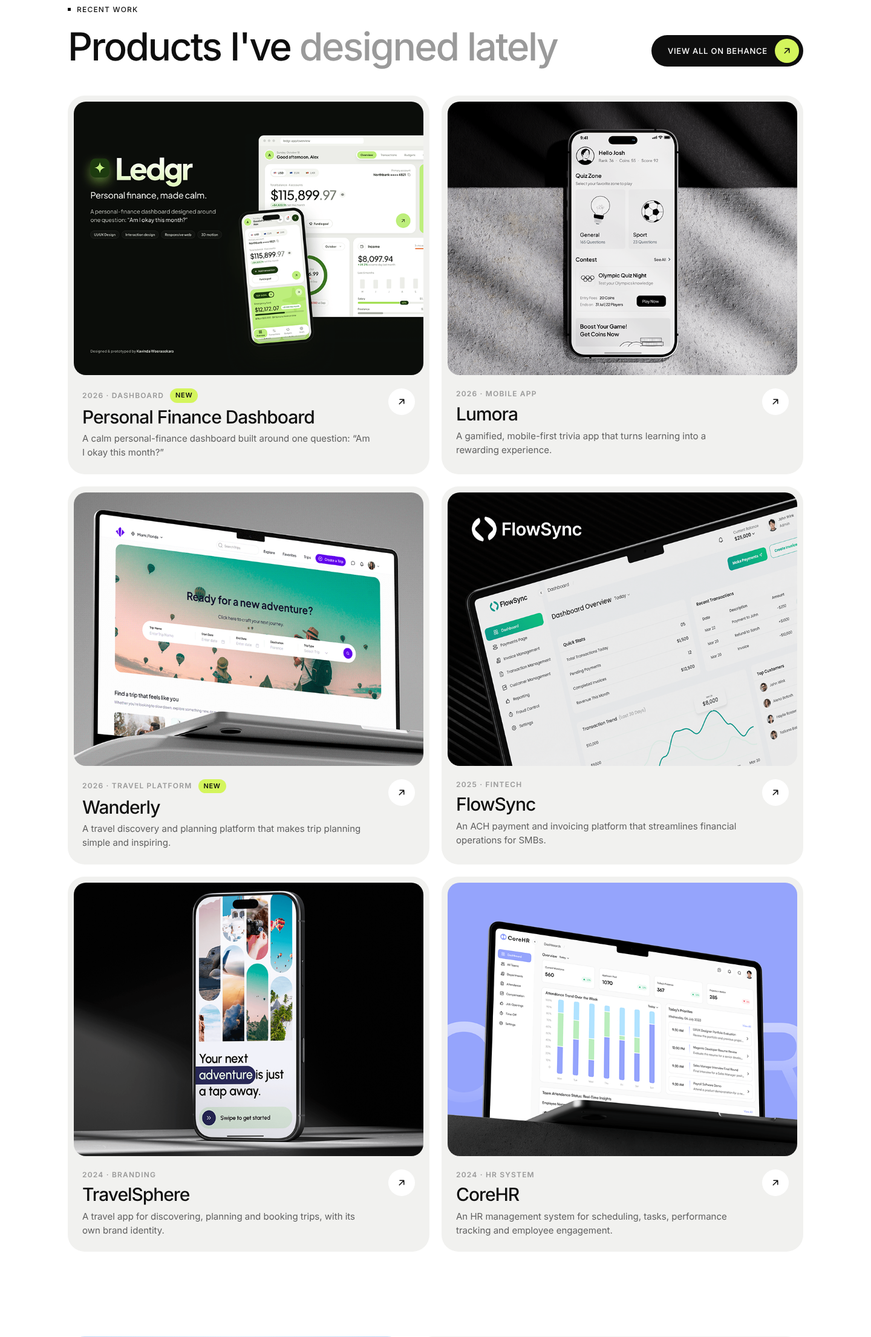
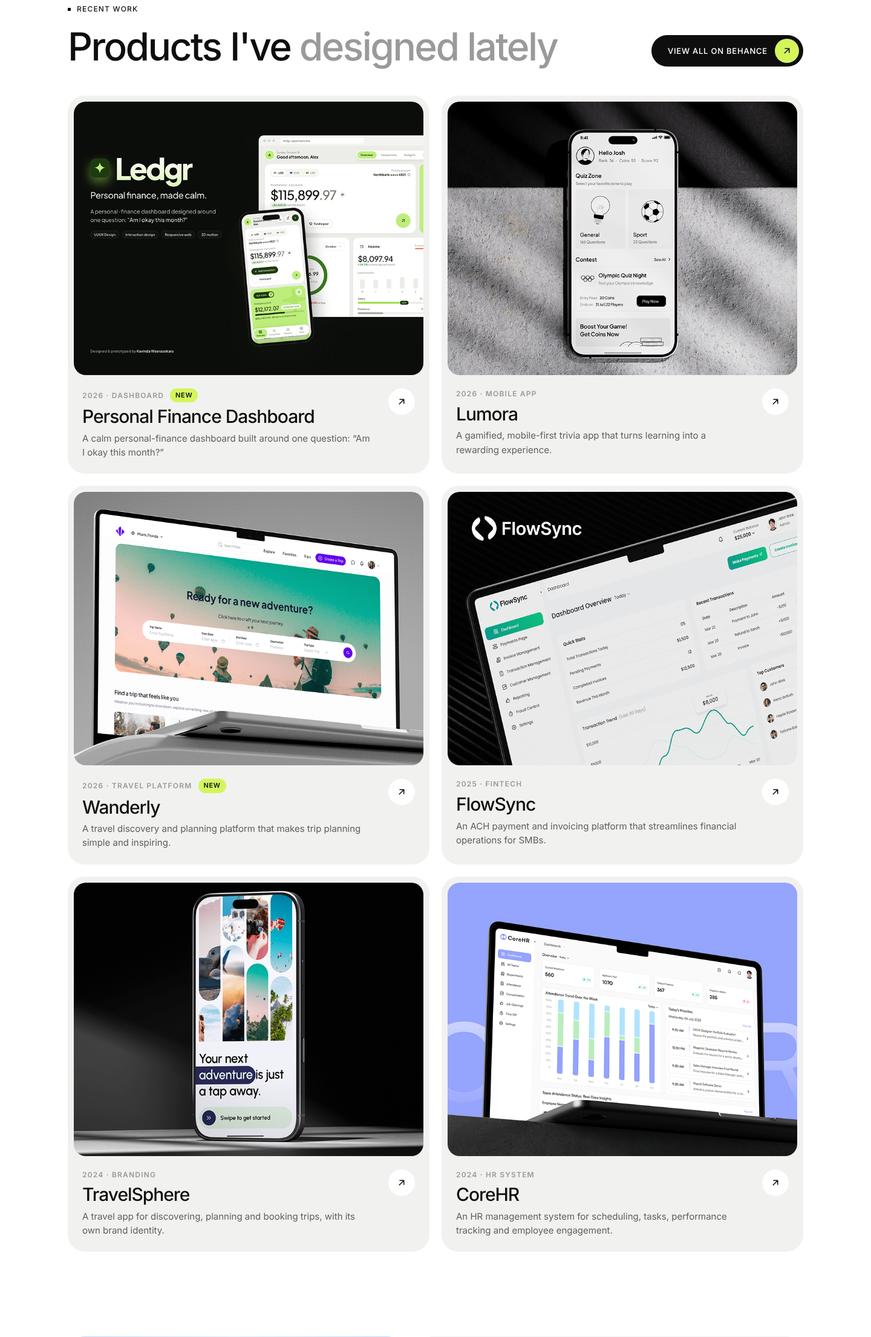
Redesign Experience as an interactive career timeline (#38)
* Add TravelSphere case study page from Behance

Nine chapters with verbatim text and 10 WebP images cropped from the
Behance project; credits Nimi Technologies; bumps asset version.

Claude-Session: https://claude.ai/code/session_015EbaoHuLAS2ZFqxRk9GYXy

* Add CoreHR case study page from Behance

Ten chapters with verbatim text and 10 WebP images cropped from the
Behance project; credits Nimi Technologies; bumps asset version.

Claude-Session: https://claude.ai/code/session_015EbaoHuLAS2ZFqxRk9GYXy

* Give each About stat card its own visual

Dark years card with rising bars, lime components card with a tile grid,
overlapping company logos for the teams card and a contrast-check badge
for WCAG. Bars and tiles animate in on reveal; icons hide on phones.

Claude-Session: https://claude.ai/code/session_015EbaoHuLAS2ZFqxRk9GYXy

* Turn the process steps into a connected journey

Step icons, arrow connectors, ghost numbers, tag chips from each step's
text and a filling 4-step progress bar; cards turn dark with lime
accents on hover. Arrows adapt to 2- and 1-column layouts.

Claude-Session: https://claude.ai/code/session_015EbaoHuLAS2ZFqxRk9GYXy

* Turn Experience into an interactive career timeline

A proportional 2021-2026 career bar, accessible role tabs with company
logos and a dark detail panel with duration, ghost start year and
numbered highlights. Tabs support arrow keys; the bar selects roles too;
without JS every role is shown.
[…]

diff --git a/index.html b/index.html
@@ -19,7 +19,7 @@
   <link rel="preconnect" href="https://fonts.googleapis.com" />
   <link rel="preconnect" href="https://fonts.gstatic.com" crossorigin />
   <link href="https://fonts.googleapis.com/css2?family=Inter:wght@300;400;500;600&display=swap" rel="stylesheet" />
-  <link rel="stylesheet" href="assets/css/style.css?v=20261027g" />
+  <link rel="stylesheet" href="assets/css/style.css?v=20261027h" />
 </head>
 <body>
   <a class="skip-link" href="#main">Skip to content</a>
@@ -398,49 +398,77 @@
           </a>
         </div>
 
-        <div class="jobs">
-          <article class="job reveal">
-            <div class="job__top"><span class="date-pill">Apr 2025 — Aug 2026</span><span class="job__no">01</span></div>
+        <div class="career reveal">
+          <div class="career-bar" aria-hidden="true">
+            <div class="career-bar__track"><button type="button" class="career-bar__seg" style="--m:7" data-job="arimac" tabindex="-1" aria-hidden="true"><span>Arimac</span></button><button type="button" class="career-bar__seg" style="--m:21" data-job="empite" tabindex="-1" aria-hidden="true"><span>Empite</span></button><span class="career-bar__gap" style="--m:2"></span><button type="button" class="career-bar__seg" style="--m:17" data-job="nimi" tabindex="-1" aria-hidden="true"><span>Nimi Tech</span></button><button type="button" class="career-bar__seg" style="--m:17" data-job="axis" tabindex="-1" aria-hidden="true"><span>Axis Tech</span></button></div>
+            <div class="career-bar__axis"><span style="left:0.00%">2021</span><span style="left:12.50%">2022</span><span style="left:31.25%">2023</span><span style="left:50.00%">2024</span><span style="left:68.75%">2025</span><span style="left:87.50%">2026</span><span class="career-bar__now">Today</span></div>
+          </div>
+          <div class="career__body">
+            <div class="career__tabs" role="tablist" aria-label="Roles">
+            <button type="button" class="career__tab" role="tab" id="tab-axis" aria-controls="job-axis" aria-selected="true" data-job="axis">
+              <span class="career__logo"><img src="assets/img/logos/axis-tech.png" alt="" width="121" height="120" loading="lazy" /></span>
+              <span class="career__tab-text"><strong>Senior UI/UX Designer</strong><span>Axis Tech</span></span>
+              <span class="career__tab-date">2025–26</span>
+            </button>
+            <button type="button" class="career__tab" role="tab" id="tab-nimi" aria-controls="job-nimi" aria-selected="false" tabindex="-1" data-job="nimi">
+              <span class="career__logo"><img src="assets/img/logos/nimi-tech.svg" alt="" width="1359" height="719" loading="lazy" /></span>
+              <span class="career__tab-text"><strong>UI/UX Designer</strong><span>Nimi Tech</span></span>
+              <span class="career__tab-date">2023–25</span>
+            </button>
+            <button type="button" class="career__tab" role="tab" id="tab-empite" aria-controls="job-empite" aria-selected="false" tabindex="-1" data-job="empite">
+              <span class="career__logo"><img src="assets/img/logos/empite.png" alt="" width="260" height="120" loading="lazy" /></span>
+              <span class="career__tab-text"><strong>UI/UX Designer</strong><span>Empite</span></span>
+              <span class="career__tab-date">2021–23</span>
+            </button>
+            <button type="button" class="career__tab" role="tab" id="tab-arimac" aria-controls="job-arimac" aria-selected="false" tabindex="-1" data-job="arimac">
+              <span class="career__logo"><img src="assets/img/logos/arimac.png" alt="" width="124" height="120" loading="lazy" /></span>
+              <span class="career__tab-text"><strong>Intern UI/UX Designer</strong><span>Arimac</span></span>
+              <span class="career__tab-date">2021</span>
+            </button>
+            </div>
+            <div class="career__panels">
+          <article class="career__panel" role="tabpanel" id="job-axis" aria-labelledby="tab-axis">
+            <span class="career__ghost" aria-hidden="true">2025</span>
+            <div class="career__panel-top">
+              <span class="career__dates">Apr 2025 — Aug 2026</span>
+              <span class="career__dur">1 yr 5 mos</span>
+            </div>
             <h3>Senior UI/UX Designer</h3>
-            <p class="job__company">Axis Tech Lanka (Pvt) Ltd</p>
-            <ul>
-              <li>Introduced AI-powered workflows as part of digital transformation initiatives.</li>
-              <li>Delivered a full-scale redesign of the product across mobile and web.</li>
-              <li>Built a full design system of components, design tokens and UI patterns.</li>
-              <li>Created a dashboard design system in Figma with 100+ reusable components.</li>
-            </ul>
+            <p class="career__company"><span class="career__logo career__logo--sm"><img src="assets/img/logos/axis-tech.png" alt="" width="121" height="120" loading="lazy" /></span>Axis Tech Lanka (Pvt) Ltd</p>
+            <ol class="career__list"><li><span>01</span>Introduced AI-powered workflows as part of digital transformation initiatives.</li><li><span>02</span>Delivered a full-scale redesign of the product across mobile and web.</li><li><span>03</span>Built a full design system of components, design tokens and UI patterns.</li><li><span>04</span>Created a dashboard design system in Figma with 100+ reusable components.</li></ol>
           </article>
-          <article class="job reveal">
-            <div class="job__top"><span class="date-pill">Nov 2023 — Mar 2025</span><span class="job__no">02</span></div>
+          <article class="career__panel" role="tabpanel" id="job-nimi" aria-labelledby="tab-nimi" hidden>
+            <span class="career__ghost" aria-hidden="true">2023</span>
+            <div class="career__panel-top">
+              <span class="career__dates">Nov 2023 — Mar 2025</span>
+              <span class="career__dur">1 yr 5 mos</span>
+            </div>
             <h3>UI/UX Designer</h3>
-            <p class="job__company">Nimi Tech Limited</p>
-            <ul>
-              <li>Provided creative direction and design feedback aligned with business goals.</li>
-              <li>Ran usability testing and iterated designs based on user insights.</li>
-              <li>Managed team workload and delegated tasks by strengths and priorities.</li>
-              <li>Partnered with clients, PMs and developers across the development lifecycle.</li>
-            </ul>
+            <p class="career__company"><span class="career__logo career__logo--sm"><img src="assets/img/logos/nimi-tech.svg" alt="" width="1359" height="719" loading="lazy" /></span>Nimi Tech Limited</p>
+            <ol class="career__list"><li><span>01</span>Provided creative direction and design feedback aligned with business goals.</li><li><span>02</span>Ran usability testing and iterated designs based on user insights.</li><li><span>03</span>Managed team workload and delegated tasks by strengths and priorities.</li><li><span>04</span>Partnered with clients, PMs and developers across the development lifecycle.</li></ol>
           </article>
-          <article class="job reveal">
-            <div class="job__top"><span class="date-pill">Dec 2021 — Aug 2023</span><span class="job__no">03</span></div>
+          <article class="career__panel" role="tabpanel" id="job-empite" aria-labelledby="tab-empite" hidden>
+            <span class="career__ghost" aria-hidden="true">2021</span>
+            <div class="career__panel-top">
+              <span class="career__dates">Dec 2021 — Aug 2023</span>
+              <span class="career__dur">1 yr 9 mos</span>
+            </div>
             <h3>UI/UX Designer</h3>
-            <p class="job__company">Empite Solutions Pvt Ltd</p>
-            <ul>
-              <li>Designed user-centred websites and applications for client business goals.</li>
-              <li>Created personas, user flows, information architecture and WCAG-compliant designs.</li>
-              <li>Produced mid- and high-fidelity UI focused on consistency and usability.</li>
-            </ul>
+            <p class="career__company"><span class="career__logo career__logo--sm"><img src="assets/img/logos/empite.png" alt="" width="260" height="120" loading="lazy" /></span>Empite Solutions Pvt Ltd</p>
+            <ol class="career__list"><li><span>01</span>Designed user-centred websites and applications for client business goals.</li><li><span>02</span>Created personas, user flows, information architecture and WCAG-compliant designs.</li><li><span>03</span>Produced mid- and high-fidelity UI focused on consistency and usability.</li></ol>
           </article>
-          <article class="job reveal">
-            <div class="job__top"><span class="date-pill">May 2021 — Nov 2021</span><span class="job__no">04</span></div>
+          <article class="career__panel" role="tabpanel" id="job-arimac" aria-labelledby="tab-arimac" hidden>
+            <span class="career__ghost" aria-hidden="true">2021</span>
+            <div class="career__panel-top">
+              <span class="career__dates">May 2021 — Nov 2021</span>
+              <span class="career__dur">7 mos</span>
+            </div>
             <h3>Intern UI/UX Designer</h3>
-            <p class="job__company">Arimac Lanka Pvt Ltd</p>
-            <ul>
-              <li>Created wireframes for mobile and web apps for early-stage product design.</li>
-              <li>Researched emerging design trends to bring fresh ideas into projects.</li>
-              <li>Supported projects from research through execution.</li>
-            </ul>
+            <p class="career__company"><span class="career__logo career__logo--sm"><img src="assets/img/logos/arimac.png" alt="" width="124" height="120" loading="lazy" /></span>Arimac Lanka Pvt Ltd</p>
+            <ol class="career__list"><li><span>01</span>Created wireframes for mobile and web apps for early-stage product design.</li><li><span>02</span>Researched emerging design trends to bring fresh ideas into projects.</li><li><span>03</span>Supported projects from research through execution.</li></ol>
           </article>
+            </div>
+          </div>
         </div>
 
         <div class="edu">
@@ -501,6 +529,6 @@
     </div>
   </footer>
 
-  <script src="assets/js/main.js?v=20261027g"></script>
+  <script src="assets/js/main.js?v=20261027h"></script>
 </body>
 </html>

diff --git a/assets/css/style.css b/assets/css/style.css
@@ -581,17 +581,76 @@ details[open] .acc-icon::after { transform: rotate(0); }
 /* ---------- Experience ---------- */
 .exp-head { display: flex; justify-content: space-between; align-items: flex-end; gap: 24px; flex-wrap: wrap; margin-bottom: clamp(32px, 4vw, 48px); }
 .exp-head__title { margin-top: 18px; font-size: clamp(36px, 5vw, 64px); }
-.jobs { display: grid; grid-template-columns: repeat(2, 1fr); gap: 20px; }
-.job { padding: clamp(24px, 3vw, 36px); border-radius: var(--radius-lg); background: var(--gray); transition: transform .4s var(--ease); }
-.job:hover { transform: translateY(-4px); }
-.job__top { display: flex; justify-content: space-between; align-items: center; margin-bottom: 32px; }
-.date-pill { padding: 6px 14px; border-radius: 999px; background: #fff; font-size: 12px; letter-spacing: .04em; }
-.job__no { font-size: 12px; color: var(--text-subtle); }
-.job h3 { font-size: clamp(24px, 2.4vw, 30px); letter-spacing: -0.035em; }
-.job__company { margin-top: 6px; color: var(--text-muted); font-weight: 500; }
-.job ul { margin-top: 20px; padding-top: 20px; border-top: 1px solid #dcdcd8; display: grid; gap: 8px; color: var(--text-muted); font-size: 15px; }
-.job li { position: relative; padding-left: 20px; }
-.job li::before { content: ""; position: absolute; left: 0; top: 8px; width: 8px; height: 8px; border-radius: 50%; background: var(--lime); box-shadow: inset 0 0 0 1px rgba(14, 14, 14, .15); }
+/* Career timeline */
+.career-bar { margin-bottom: 20px; padding: 22px 24px 18px; border-radius: var(--radius-lg); background: var(--gray); }
+.career-bar__track { display: flex; gap: 4px; height: 44px; }
+.career-bar__seg {
+  flex: var(--m) 1 0; min-width: 0; border: 0; border-radius: 12px; background: var(--gray-2); color: var(--text-muted);
+  font: 500 13px/1 var(--font-sans); text-align: left; padding: 0 12px; overflow: hidden; white-space: nowrap;
+  transition: background-color .35s var(--ease), color .35s var(--ease), flex-grow .6s var(--ease);
+}
+.career-bar__seg span { display: block; overflow: hidden; text-overflow: ellipsis; }
+.career-bar__seg:hover { background: #dcdcd8; color: var(--text); }
+.career-bar__seg.is-active { background: var(--ink); color: #fff; }
+.career-bar__seg.is-active::before { content: ""; display: inline-block; vertical-align: middle; width: 6px; height: 6px; margin: -2px 8px 0 0; border-radius: 50%; background: var(--lime); float: left; margin-top: 4px; }
+.career-bar__gap { flex: var(--m) 1 0; border-radius: 12px; background: repeating-linear-gradient(-45deg, transparent 0 4px, rgba(14, 14, 14, .07) 4px 6px); }
+.career-bar__axis { position: relative; height: 18px; margin-top: 10px; font-size: 11.5px; letter-spacing: .06em; color: var(--text-subtle); }
+.career-bar__axis span { position: absolute; top: 0; padding-left: 7px; border-left: 1px solid #d4d4d0; line-height: 18px; }
+.career-bar__axis .career-bar__now { right: 0; border: 0; padding: 0; color: var(--text); font-weight: 600; }
+.career-bar__axis .career-bar__now::before { content: ""; display: inline-block; width: 6px; height: 6px; margin: 0 6px 1px 0; border-radius: 50%; background: var(--lime); box-shadow: 0 0 0 3px rgba(212, 245, 92, .35); }
+
+.career__body { display: grid; grid-template-columns: minmax(0, 380px) minmax(0, 1fr); gap: 20px; }
+.career__tabs { position: relative; display: flex; flex-direction: column; gap: 8px; padding: 10px; border-radius: var(--radius-lg); background: var(--gray); }
+.career__tab {
+  position: relative; flex: 1; display: flex; align-items: center; gap: 14px; width: 100%; padding: 14px; border: 0; border-radius: 18px;
+  background: transparent; color: var(--text); font: inherit; text-align: left;
+  transition: background-color .35s var(--ease), box-shadow .35s var(--ease), transform .35s var(--ease);
+}
+.career__tab:hover { background: rgba(255, 255, 255, .6); }
+.career__tab[aria-selected="true"] { background: #fff; box-shadow: var(--shadow); }
+.career__tab[aria-selected="true"]::after { content: ""; position: absolute; left: -10px; top: 22px; bottom: 22px; width: 4px; border-radius: 0 4px 4px 0; background: var(--lime); }
+.career__tab:focus-visible { outline: 2px solid var(--ink); outline-offset: 2px; }
+.career__logo { flex: none; width: 48px; height: 48px; border-radius: 14px; background: #fff; display: grid; place-items: center; padding: 8px; box-shadow: inset 0 0 0 1px var(--border); }
+.career__logo img { width: 100%; height: 100%; object-fit: contain; }
+.career__tab-text { min-width: 0; flex: 1; display: grid; gap: 2px; }
+.career__tab-text strong { font-size: 15.5px; font-weight: 600; letter-spacing: -0.01em; }
+.career__tab-text span { font-size: 13.5px; color: var(--text-muted); }
+.career__tab-date { font-size: 12px; letter-spacing: .04em; color: var(--text-subtle); font-variant-numeric: tabular-nums; }
+
+.career__panels { min-width: 0; }
+.career__panel {
+  position: relative; overflow: hidden; isolation: isolate; height: 100%; padding: clamp(28px, 3.4vw, 44px);
+  border-radius: var(--radius-xl); background: var(--ink); color: #fff;
+}
+.js .career__panel:not([hidden]) { animation: career-in .6s var(--ease); }
+@keyframes career-in { from { opacity: 0; transform: translateY(14px); } to { opacity: 1; transform: none; } }
+.career__panel::before {
+  content: ""; position: absolute; z-index: -1; right: -20%; top: -40%; width: 70%; aspect-ratio: 1; border-radius: 50%;
+  background: radial-gradient(closest-side, rgba(212, 245, 92, .22), transparent);
+}
+.career__ghost {
+  position: absolute; z-index: -1; right: -0.04em; bottom: -0.2em; font-size: clamp(120px, 16vw, 220px); font-weight: 600;
+  letter-spacing: -0.07em; line-height: 1; color: rgba(255, 255, 255, .04); pointer-events: none;
+}
+.career__panel-top { display: flex; flex-wrap: wrap; align-items: center; gap: 8px; }
+.career__dates { padding: 7px 14px; border-radius: 999px; background: var(--lime); color: var(--ink); font-size: 12.5px; font-weight: 500; letter-spacing: .02em; }
+.career__dur { padding: 7px 14px; border-radius: 999px; background: rgba(255, 255, 255, .1); font-size: 12.5px; letter-spacing: .02em; }
+.career__panel h3 { margin-top: clamp(28px, 4vw, 48px); font-size: clamp(30px, 3.6vw, 48px); letter-spacing: -0.045em; line-height: 1.05; }
+.career__company { margin-top: 14px; display: flex; align-items: center; gap: 12px; color: rgba(255, 255, 255, .72); font-weight: 500; }
+.career__logo--sm { width: 36px; height: 36px; border-radius: 10px; padding: 6px; box-shadow: none; }
+.career__list { margin-top: clamp(24px, 3vw, 36px); display: grid; gap: 10px; }
+.career__list li {
+  display: grid; grid-template-columns: 36px 1fr; gap: 12px; align-items: baseline; padding: 14px 16px; border-radius: 16px;
+  background: rgba(255, 255, 255, .05); color: rgba(255, 255, 255, .78); font-size: 15px;
+  transition: background-color .3s var(--ease), color .3s var(--ease);
+}
+.career__list li:hover { background: rgba(255, 255, 255, .09); color: #fff; }
+.career__list li span { font-size: 12px; letter-spacing: .08em; color: var(--lime); font-variant-numeric: tabular-nums; }
+.js .career__panel:not([hidden]) .career__list li { animation: career-in .6s var(--ease) both; }
+.career__list li:nth-child(2) { animation-delay: 60ms !important; }
+.career__list li:nth-child(3) { animation-delay: 120ms !important; }
+.career__list li:nth-child(4) { animation-delay: 180ms !important; }
+html:not(.js) .career__panel[hidden] { display: block; margin-top: 20px; }
 
 .edu { margin-top: 20px; display: grid; grid-template-columns: 1fr 1fr; gap: 20px; }
 .edu__card { display: flex; gap: 18px; align-items: center; padding: 24px; border-radius: var(--radius); border: 1px solid var(--border); transition: border-color .2s, transform .3s var(--ease); }
@@ -648,6 +707,12 @@ details[open] .acc-icon::after { transform: rotate(0); }
 }
 
 @media (max-width: 900px) {
+  .career__body { grid-template-columns: 1fr; }
+  .career__tabs { flex-direction: row; overflow-x: auto; scroll-snap-type: x mandatory; scrollbar-width: none; }
+  .career__tabs::-webkit-scrollbar { display: none; }
+  .career__tab { flex: 0 0 auto; width: auto; padding: 10px 16px 10px 10px; scroll-snap-align: start; }
+  .career__tab-date, .career__tab[aria-selected="true"]::after { display: none; }
+  .career__logo { width: 40px; height: 40px; border-radius: 12px; }
   .nav__burger { display: flex; }
   .nav__links {
     position: absolute; top: 76px; left: 0; right: 0;
@@ -674,7 +739,11 @@ details[open] .acc-icon::after { transform: rotate(0); }
   .services { grid-template-columns: 1fr; }
   .rw-head { align-items: flex-start; }
   .services__visual { min-height: 420px; }
-  .jobs, .edu { grid-template-columns: 1fr; }
+  .edu { grid-template-columns: 1fr; }
+  .career-bar { padding: 16px 16px 12px; }
+  .career-bar__seg { padding: 0; font-size: 0; }
+  .career-bar__seg.is-active::before { display: none; }
+  .career-bar__axis span:nth-child(even):not(.career-bar__now) { display: none; }
 }
 
 @media (max-width: 640px) {

diff --git a/assets/js/main.js b/assets/js/main.js
@@ -88,6 +88,37 @@
     document.querySelectorAll('.reveal').forEach(function (el) { el.classList.add('is-visible'); });
   }
 
+  // Experience: role tabs + career bar
+  var careerTabs = document.querySelectorAll('.career__tab');
+  if (careerTabs.length) {
+    var segs = document.querySelectorAll('.career-bar__seg');
+    var selectJob = function (id, focus) {
+      careerTabs.forEach(function (t) {
+        var on = t.dataset.job === id;
+        t.setAttribute('aria-selected', String(on));
+        t.tabIndex = on ? 0 : -1;
+        document.getElementById(t.getAttribute('aria-controls')).hidden = !on;
+        if (on) {
+          if (focus) t.focus();
+          t.parentNode.scrollTo({ left: t.offsetLeft - 10, behavior: 'smooth' });
+        }
+      });
+      segs.forEach(function (s) { s.classList.toggle('is-active', s.dataset.job === id); });
+    };
+    careerTabs.forEach(function (t, i) {
+      t.addEventListener('click', function () { selectJob(t.dataset.job); });
+      t.addEventListener('keydown', function (e) {
+        var k = { ArrowDown: 1, ArrowRight: 1, ArrowUp: -1, ArrowLeft: -1 }[e.key];
+        if (e.key === 'Home') k = -i; else if (e.key === 'End') k = careerTabs.length - 1 - i;
+        if (k === undefined) return;
+        e.preventDefault();
+        selectJob(careerTabs[(i + k + careerTabs.length) % careerTabs.length].dataset.job, true);
+      });
+    });
+    segs.forEach(function (s) { s.addEventListener('click', function () { selectJob(s.dataset.job); }); });
+    selectJob(careerTabs[0].dataset.job);
+  }
+
   // Copy email
   var copyBtn = document.getElementById('copy-email');
   copyBtn.addEventListener('click', function () {

diff --git a/case-studies/personal-finance-dashboard.html b/case-studies/personal-finance-dashboard.html
@@ -19,7 +19,7 @@
   <link rel="preconnect" href="https://fonts.googleapis.com" />
   <link rel="preconnect" href="https://fonts.gstatic.com" crossorigin />
   <link href="https://fonts.googleapis.com/css2?family=Inter:wght@300;400;500;600&family=Plus+Jakarta+Sans:wght@400;500;600&display=swap" rel="stylesheet" />
-  <link rel="stylesheet" href="../assets/css/style.css?v=20261027g" />
+  <link rel="stylesheet" href="../assets/css/style.css?v=20261027h" />
 </head>
 <body>
   <!-- Generated by scripts/build_projects.py from assets/data/projects.json — edit those, not this file. -->
@@ -404,6 +404,6 @@
     </div>
   </footer>
 
-  <script src="../assets/js/main.js?v=20261027g"></script>
+  <script src="../assets/js/main.js?v=20261027h"></script>
 </body>
 </html>

diff --git a/case-studies/corehr.html b/case-studies/corehr.html
@@ -19,7 +19,7 @@
   <link rel="preconnect" href="https://fonts.googleapis.com" />
   <link rel="preconnect" href="https://fonts.gstatic.com" crossorigin />
   <link href="https://fonts.googleapis.com/css2?family=Inter:wght@300;400;500;600&display=swap" rel="stylesheet" />
-  <link rel="stylesheet" href="../assets/css/style.css?v=20261027g" />
+  <link rel="stylesheet" href="../assets/css/style.css?v=20261027h" />
 </head>
 <body>
   <!-- Generated by scripts/build_projects.py from assets/data/projects.json — edit those, not this file. -->
@@ -326,6 +326,6 @@
     </div>
   </footer>
 
-  <script src="../assets/js/main.js?v=20261027g"></script>
+  <script src="../assets/js/main.js?v=20261027h"></script>
 </body>
 </html>

diff --git a/case-studies/flowsync.html b/case-studies/flowsync.html
@@ -19,7 +19,7 @@
   <link rel="preconnect" href="https://fonts.googleapis.com" />
   <link rel="preconnect" href="https://fonts.gstatic.com" crossorigin />
   <link href="https://fonts.googleapis.com/css2?family=Inter:wght@300;400;500;600&display=swap" rel="stylesheet" />
-  <link rel="stylesheet" href="../assets/css/style.css?v=20261027g" />
+  <link rel="stylesheet" href="../assets/css/style.css?v=20261027h" />
 </head>
 <body>
   <!-- Generated by scripts/build_projects.py from assets/data/projects.json — edit those, not this file. -->
@@ -391,6 +391,6 @@
     </div>
   </footer>
 
-  <script src="../assets/js/main.js?v=20261027g"></script>
+  <script src="../assets/js/main.js?v=20261027h"></script>
 </body>
 </html>

diff --git a/case-studies/lumora.html b/case-studies/lumora.html
@@ -19,7 +19,7 @@
   <link rel="preconnect" href="https://fonts.googleapis.com" />
   <link rel="preconnect" href="https://fonts.gstatic.com" crossorigin />
   <link href="https://fonts.googleapis.com/css2?family=Inter:wght@300;400;500;600&display=swap" rel="stylesheet" />
-  <link rel="stylesheet" href="../assets/css/style.css?v=20261027g" />
+  <link rel="stylesheet" href="../assets/css/style.css?v=20261027h" />
 </head>
 <body>
   <!-- Generated by scripts/build_projects.py from assets/data/projects.json — edit those, not this file. -->
@@ -430,6 +430,6 @@
     </div>
   </footer>
 
-  <script src="../assets/js/main.js?v=20261027g"></script>
+  <script src="../assets/js/main.js?v=20261027h"></script>
 </body>
 </html>

diff --git a/case-studies/travelsphere.html b/case-studies/travelsphere.html
@@ -19,7 +19,7 @@
   <link rel="preconnect" href="https://fonts.googleapis.com" />
   <link rel="preconnect" href="https://fonts.gstatic.com" crossorigin />
   <link href="https://fonts.googleapis.com/css2?family=Inter:wght@300;400;500;600&display=swap" rel="stylesheet" />
-  <link rel="stylesheet" href="../assets/css/style.css?v=20261027g" />
+  <link rel="stylesheet" href="../assets/css/style.css?v=20261027h" />
 </head>
 <body>
   <!-- Generated by scripts/build_projects.py from assets/data/projects.json — edit those, not this file. -->
@@ -313,6 +313,6 @@
     </div>
   </footer>
 
-  <script src="../assets/js/main.js?v=20261027g"></script>
+  <script src="../assets/js/main.js?v=20261027h"></script>
 </body>
 </html>

diff --git a/case-studies/wanderly.html b/case-studies/wanderly.html
@@ -19,7 +19,7 @@
   <link rel="preconnect" href="https://fonts.googleapis.com" />
   <link rel="preconnect" href="https://fonts.gstatic.com" crossorigin />
   <link href="https://fonts.googleapis.com/css2?family=Inter:wght@300;400;500;600&display=swap" rel="stylesheet" />
-  <link rel="stylesheet" href="../assets/css/style.css?v=20261027g" />
+  <link rel="stylesheet" href="../assets/css/style.css?v=20261027h" />
 </head>
 <body>
   <!-- Generated by scripts/build_projects.py from assets/data/projects.json — edit those, not this file. -->
@@ -274,6 +274,6 @@
     </div>
   </footer>
 
-  <script src="../assets/js/main.js?v=20261027g"></script>
+  <script src="../assets/js/main.js?v=20261027h"></script>
 </body>
 </html>
